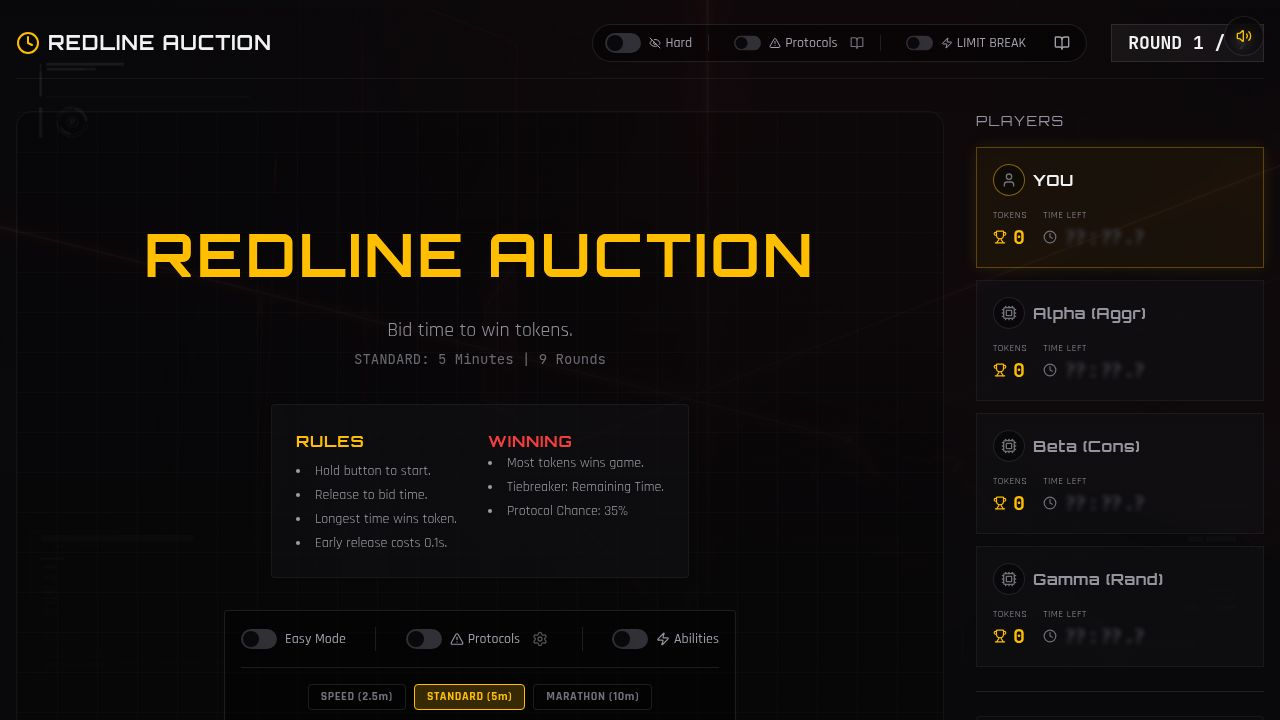
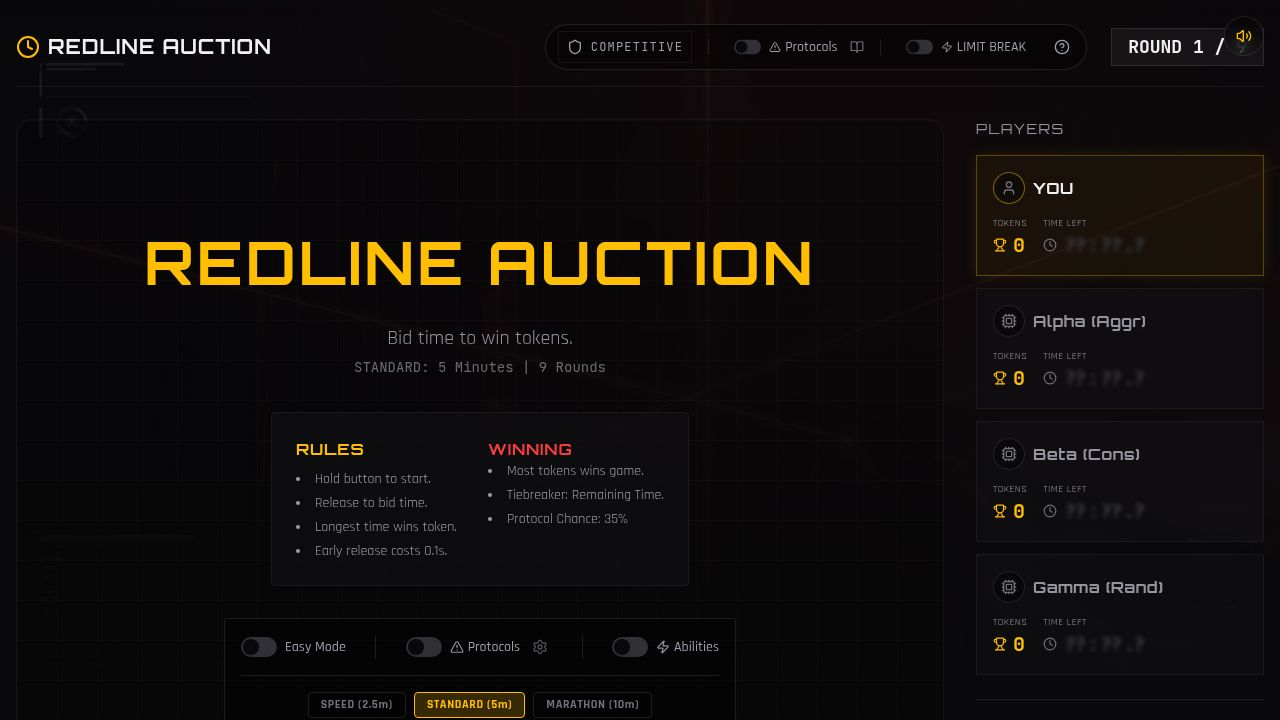
Add new game modes and improve mobile compatibility
Implement 'SOCIAL OVERDRIVE' and 'BIO-FUEL' game modes with futuristic naming, update overlay responsiveness for mobile, and modify UI elements for mode selection and display.

Replit-Commit-Author: Agent
Replit-Commit-Session-Id: b6258731-d8e0-41a3-9b4d-e4f98fea158f
Replit-Commit-Checkpoint-Type: full_checkpoint
Replit-Commit-Event-Id: a1f8a6d6-1358-4b7f-b3b5-e765606c4de3
Replit-Commit-Screenshot-Url: https://storage.googleapis.com/screenshot-production-us-central1/4e6a843e-db8d-4d3c-ab89-239354a908ce/b6258731-d8e0-41a3-9b4d-e4f98fea158f/tJCOAsu
Replit-Helium-Checkpoint-Created: true

diff --git a/client/src/pages/Game.tsx b/client/src/pages/Game.tsx
@@ -25,7 +25,7 @@ import {
 import { 
   Trophy, AlertTriangle, RefreshCw, LogOut, SkipForward, Clock, Settings, Eye, EyeOff,
   Shield, MousePointer2, Snowflake, Rocket, Brain, Zap, Megaphone, Flame, TrendingUp, User,
-  Users, Globe, Lock, BookOpen, CircleHelp
+  Users, Globe, Lock, BookOpen, CircleHelp, Martini, PartyPopper, Skull
 } from "lucide-react";
 import { motion, AnimatePresence } from "framer-motion";
 
@@ -191,10 +191,13 @@ const CHARACTERS: Character[] = [
   },
 ];
 
+type GameMode = 'COMPETITIVE' | 'CASUAL' | 'SOCIAL_OVERDRIVE' | 'BIO_FUEL';
+
 export default function Game() {
   const { toast } = useToast();
   // Game State
   const [phase, setPhase] = useState<GamePhase>('intro');
+  const [gameMode, setGameMode] = useState<GameMode>('COMPETITIVE');
   const [round, setRound] = useState(1);
   const [gameDuration, setGameDuration] = useState<GameDuration>('standard');
   const [currentTime, setCurrentTime] = useState(0.0); // The central auction clock
@@ -215,6 +218,44 @@ export default function Game() {
   const [abilitiesEnabled, setAbilitiesEnabled] = useState(false);
   const [showPopupLibrary, setShowPopupLibrary] = useState(false);
   const [activeAbilities, setActiveAbilities] = useState<{ player: string, playerId: string, ability: string, effect: string, targetName?: string, targetId?: string, impactValue?: string }[]>([]);
+
+  // Sync Show Details with Game Mode
+  useEffect(() => {
+    if (gameMode === 'CASUAL') setShowDetails(true);
+    else setShowDetails(false);
+    
+    // Auto-enable protocols for Social Overdrive
+    if (gameMode === 'SOCIAL_OVERDRIVE') {
+        setProtocolsEnabled(true);
+    }
+  }, [gameMode]);
+
+  const toggleGameMode = () => {
+    setGameMode(prev => {
+      if (prev === 'COMPETITIVE') return 'CASUAL';
+      if (prev === 'CASUAL') return 'SOCIAL_OVERDRIVE';
+      if (prev === 'SOCIAL_OVERDRIVE') return 'BIO_FUEL';
+      return 'COMPETITIVE';
+    });
+  };
+
+  const getModeIcon = () => {
+    switch (gameMode) {
+      case 'COMPETITIVE': return <Shield size={12} />;
+      case 'CASUAL': return <Eye size={12} />;
+      case 'SOCIAL_OVERDRIVE': return <PartyPopper size={12} />;
+      case 'BIO_FUEL': return <Martini size={12} />;
+    }
+  };
+
+  const getModeColor = () => {
+    switch (gameMode) {
+      case 'COMPETITIVE': return "text-zinc-400";
+      case 'CASUAL': return "text-emerald-400";
+      case 'SOCIAL_OVERDRIVE': return "text-purple-400";
+      case 'BIO_FUEL': return "text-orange-400";
+    }
+  };
 
   // Derived Constants based on Duration
   const getTotalRounds = () => {
@@ -936,6 +977,15 @@ export default function Game() {
        overlaySub = "No one dared to bid!";
     }
 
+    // BIO-FUEL Logic: Add drink prompt if applicable
+    if (gameMode === 'BIO_FUEL' && (overlayType === 'time_out' || winnerId)) {
+        if (overlayType === 'time_out') {
+             overlaySub = "ELIMINATED! CONSUME BIO-FUEL.";
+        } else if (winnerId) {
+             overlaySub = "OTHERS MUST REFUEL.";
+        }
+    }
+
     setOverlay({ 
       type: overlayType, 
       message: overlayMsg, 
@@ -1648,16 +1698,20 @@ export default function Game() {
         </div>
         <div className="flex items-center gap-6">
           <div className="flex items-center gap-4 bg-black/40 p-1.5 px-3 rounded-full border border-white/10">
+             
+             {/* GAME MODE TOGGLE */}
              <div className="flex items-center gap-2">
-                <Switch 
-                  id="show-details" 
-                  checked={showDetails} 
-                  onCheckedChange={setShowDetails} 
-                />
-                <Label htmlFor="show-details" className="text-sm cursor-pointer text-zinc-400 flex items-center gap-1">
-                  {showDetails ? <Eye size={12}/> : <EyeOff size={12}/>} 
-                  {showDetails ? "Easy" : "Hard"}
-                </Label>
+                <Button 
+                   variant="ghost" 
+                   size="sm" 
+                   onClick={toggleGameMode}
+                   className="h-6 px-2 text-xs font-mono hover:bg-white/10 transition-colors flex items-center gap-2 border border-white/5"
+                >
+                   <span className={getModeColor()}>{getModeIcon()}</span>
+                   <span className={cn("tracking-widest", getModeColor())}>
+                      {gameMode.replace('_', ' ')}
+                   </span>
+                </Button>
              </div>
              
              <Separator orientation="vertical" className="h-4 bg-white/10" />

diff --git a/client/src/components/game/GameOverlay.tsx b/client/src/components/game/GameOverlay.tsx
@@ -103,7 +103,7 @@ export function GameOverlay({ type, message, subMessage, onComplete }: GameOverl
         <div className="fixed inset-0 z-50 flex items-end justify-center pointer-events-none p-8 pb-32">
           <motion.div 
             key="overlay-content" // Force re-render if needed, but framer handles it
-            className={`flex flex-col items-center justify-center py-6 px-12 rounded-2xl border backdrop-blur-xl shadow-2xl ${getColor()} min-w-[400px] text-center pointer-events-auto`}
+            className={`flex flex-col items-center justify-center py-6 px-12 rounded-2xl border backdrop-blur-xl shadow-2xl ${getColor()} min-w-[90vw] md:min-w-[400px] text-center pointer-events-auto`}
             initial="hidden"
             animate="visible"
             exit="exit"
